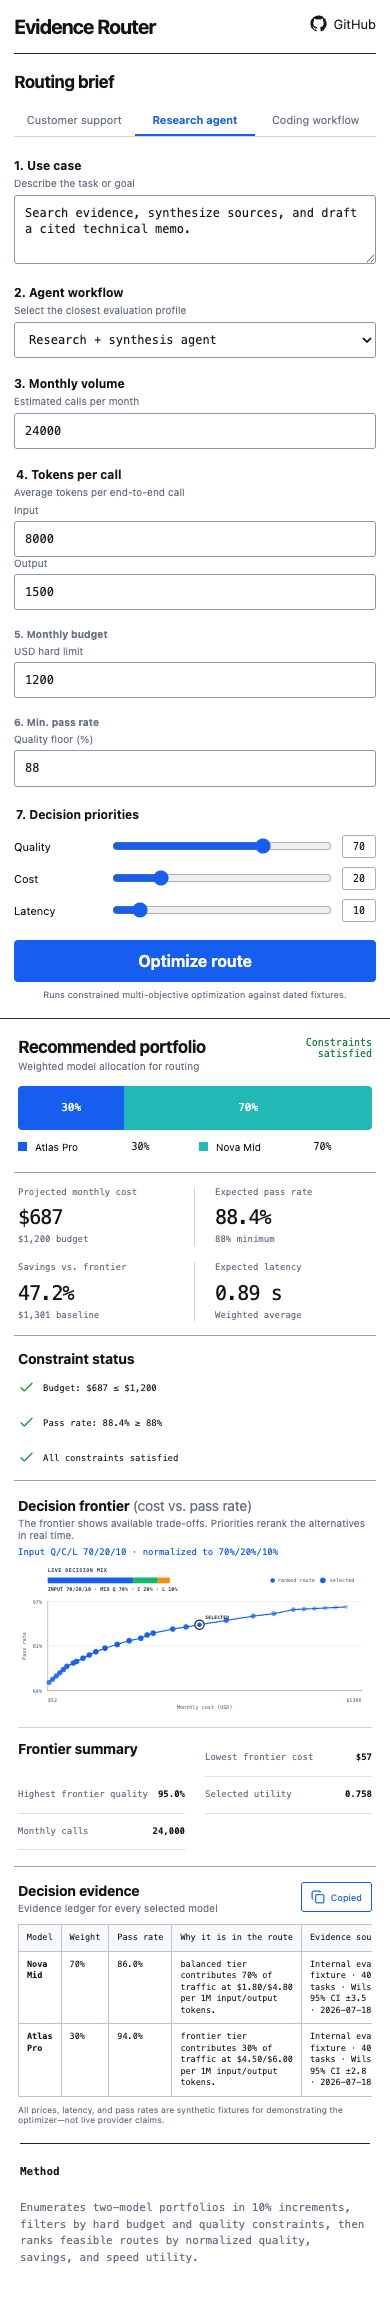
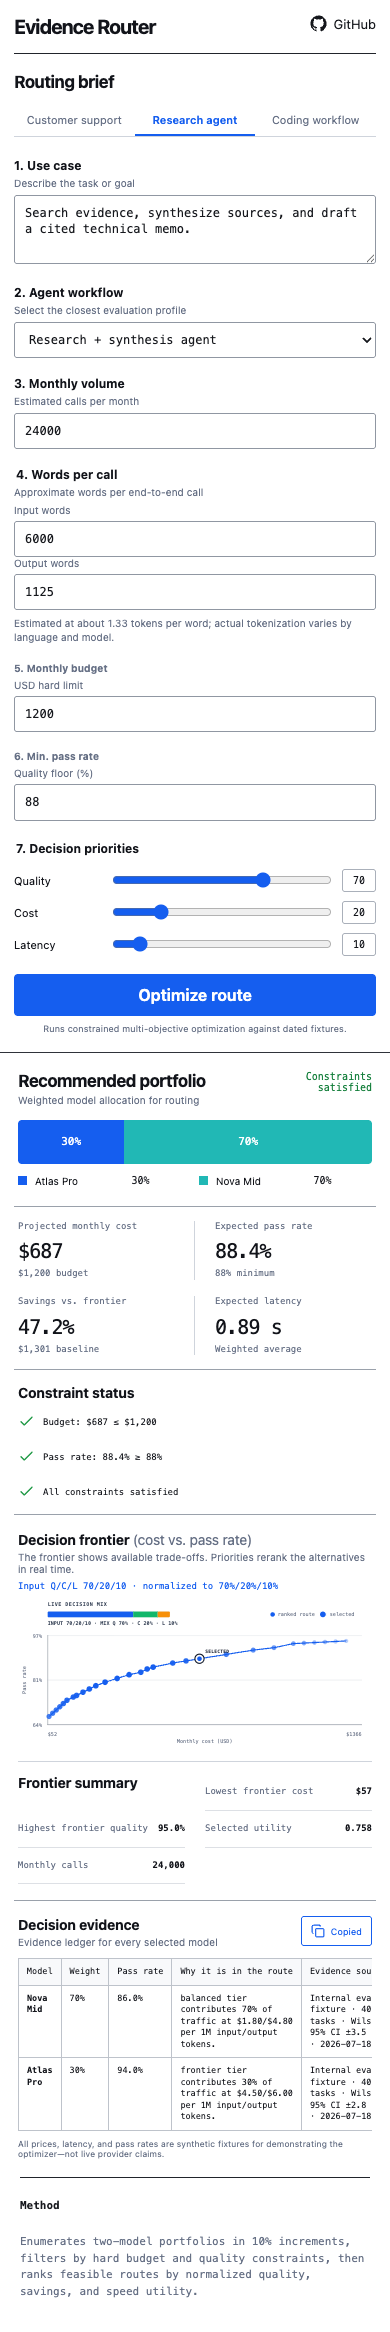
fix: collect workload size in words

diff --git a/src/components/InputPanel.tsx b/src/components/InputPanel.tsx
@@ -1,6 +1,7 @@
 import type { Dispatch, SetStateAction } from 'react'
 import type { RoutingInput, Workflow } from '../types'
 import { PRESETS } from '../data/presets'
+import { WORD_USAGE_ESTIMATE_NOTE } from '../lib/usage'
 
 interface InputPanelProps {
   input: RoutingInput
@@ -13,7 +14,7 @@ interface InputPanelProps {
 export function InputPanel({ input, setInput, selectedPreset, onPreset, onOptimize }: InputPanelProps) {
   const patch = <K extends keyof RoutingInput>(key: K, value: RoutingInput[K]) =>
     setInput((current) => ({ ...current, [key]: value }))
-  const number = (key: keyof Pick<RoutingInput, 'monthlyCalls' | 'inputTokensPerCall' | 'outputTokensPerCall' | 'monthlyBudget'>, value: string) =>
+  const number = (key: keyof Pick<RoutingInput, 'monthlyCalls' | 'inputWordsPerCall' | 'outputWordsPerCall' | 'monthlyBudget'>, value: string) =>
     patch(key, Math.max(0, Number(value)))
   const priority = (key: keyof RoutingInput['priorities'], value: string) =>
     setInput((current) => ({ ...current, priorities: { ...current.priorities, [key]: Number(value) } }))
@@ -53,12 +54,13 @@ export function InputPanel({ input, setInput, selectedPreset, onPreset, onOptimi
       </label>
 
       <fieldset className="field wide">
-        <legend className="field-index">4. Tokens per call</legend>
-        <span className="field-help">Average tokens per end-to-end call</span>
+        <legend className="field-index">4. Words per call</legend>
+        <span className="field-help">Approximate words per end-to-end call</span>
         <div className="paired-inputs">
-          <label><span>Input</span><input type="number" min="1" value={input.inputTokensPerCall} onChange={(event) => number('inputTokensPerCall', event.target.value)} /></label>
-          <label><span>Output</span><input type="number" min="1" value={input.outputTokensPerCall} onChange={(event) => number('outputTokensPerCall', event.target.value)} /></label>
+          <label><span>Input words</span><input type="number" min="0" value={input.inputWordsPerCall} onChange={(event) => number('inputWordsPerCall', event.target.value)} /></label>
+          <label><span>Output words</span><input type="number" min="0" value={input.outputWordsPerCall} onChange={(event) => number('outputWordsPerCall', event.target.value)} /></label>
         </div>
+        <span className="field-help word-estimate-note">{WORD_USAGE_ESTIMATE_NOTE}</span>
       </fieldset>
 
       <div className="paired-inputs major-pair">

diff --git a/src/lib/router.test.ts b/src/lib/router.test.ts
@@ -2,14 +2,15 @@ import { describe, expect, it } from 'vitest'
 import { MODEL_CATALOG } from '../data/models'
 import { normalizePriorities } from './priorities'
 import { forecastPortfolio, optimizeRoute } from './router'
+import * as routing from './router'
 import type { RoutingInput } from '../types'
 
 const baseInput: RoutingInput = {
   useCase: 'Customer-support agent',
   workflow: 'support',
   monthlyCalls: 100_000,
-  inputTokensPerCall: 1_000,
-  outputTokensPerCall: 250,
+  inputWordsPerCall: 750,
+  outputWordsPerCall: 188,
   monthlyBudget: 500,
   passRateFloor: 0.8,
   priorities: { quality: 50, cost: 30, speed: 20 },
@@ -31,7 +32,7 @@ describe('normalizePriorities', () => {
 })
 
 describe('forecastPortfolio', () => {
-  it('calculates token cost and weighted operating metrics', () => {
+  it('estimates token-priced cost from user-entered words', () => {
     const forecast = forecastPortfolio(
       baseInput,
       [
@@ -41,9 +42,21 @@ describe('forecastPortfolio', () => {
       MODEL_CATALOG,
     )
 
-    expect(forecast.monthlyCost).toBeCloseTo(337.5, 1)
+    expect(forecast.monthlyCost).toBeCloseTo(337.85, 1)
     expect(forecast.passRate).toBeCloseTo(0.84, 3)
     expect(forecast.latencyMs).toBeCloseTo(830, 0)
+  })
+})
+
+describe('word usage estimation', () => {
+  const estimateTokensFromWords = (routing as unknown as {
+    estimateTokensFromWords?: (words: number) => number
+  }).estimateTokensFromWords
+
+  it('converts words with the shared planning estimate', () => {
+    expect(estimateTokensFromWords?.(0)).toBe(0)
+    expect(estimateTokensFromWords?.(750)).toBe(1_000)
+    expect(estimateTokensFromWords?.(188)).toBe(251)
   })
 })
 

diff --git a/src/data/presets.ts b/src/data/presets.ts
@@ -14,8 +14,8 @@ export const PRESETS: RoutingPreset[] = [
       useCase: 'Answer product questions, retrieve account context, and escalate uncertain cases.',
       workflow: 'support',
       monthlyCalls: 100_000,
-      inputTokensPerCall: 1_000,
-      outputTokensPerCall: 250,
+      inputWordsPerCall: 750,
+      outputWordsPerCall: 188,
       monthlyBudget: 500,
       passRateFloor: 0.8,
       priorities: { quality: 50, cost: 30, speed: 20 },
@@ -28,8 +28,8 @@ export const PRESETS: RoutingPreset[] = [
       useCase: 'Search evidence, synthesize sources, and draft a cited technical memo.',
       workflow: 'research',
       monthlyCalls: 24_000,
-      inputTokensPerCall: 8_000,
-      outputTokensPerCall: 1_500,
+      inputWordsPerCall: 6_000,
+      outputWordsPerCall: 1_125,
       monthlyBudget: 1_200,
       passRateFloor: 0.88,
       priorities: { quality: 70, cost: 20, speed: 10 },
@@ -42,8 +42,8 @@ export const PRESETS: RoutingPreset[] = [
       useCase: 'Triage an issue, propose a patch, run tests, and review the final diff.',
       workflow: 'coding',
       monthlyCalls: 40_000,
-      inputTokensPerCall: 5_000,
-      outputTokensPerCall: 1_200,
+      inputWordsPerCall: 3_750,
+      outputWordsPerCall: 900,
       monthlyBudget: 1_600,
       passRateFloor: 0.87,
       priorities: { quality: 65, cost: 20, speed: 15 },

diff --git a/src/lib/router.ts b/src/lib/router.ts
@@ -8,6 +8,9 @@ import type {
   RoutingResult,
 } from '../types'
 import { normalizePriorities } from './priorities'
+import { estimateTokensFromWords } from './usage'
+
+export { estimateTokensFromWords } from './usage'
 
 interface Candidate {
   allocations: Allocation[]
@@ -19,8 +22,8 @@ interface Candidate {
 const round = (value: number, digits = 4) => Number(value.toFixed(digits))
 
 function modelMonthlyCost(input: RoutingInput, model: ModelProfile): number {
-  const inputMillions = (input.monthlyCalls * input.inputTokensPerCall) / 1_000_000
-  const outputMillions = (input.monthlyCalls * input.outputTokensPerCall) / 1_000_000
+  const inputMillions = (input.monthlyCalls * estimateTokensFromWords(input.inputWordsPerCall)) / 1_000_000
+  const outputMillions = (input.monthlyCalls * estimateTokensFromWords(input.outputWordsPerCall)) / 1_000_000
   return inputMillions * model.inputPricePerMillion + outputMillions * model.outputPricePerMillion
 }
 

diff --git a/src/lib/usage.ts b/src/lib/usage.ts
@@ -1,0 +1,18 @@
+import type { RoutingInput } from '../types'
+
+export const TOKENS_PER_WORD = 4 / 3
+export const WORD_USAGE_ESTIMATE_NOTE = 'Estimated at about 1.33 tokens per word; actual tokenization varies by language and model.'
+
+export function estimateTokensFromWords(words: number): number {
+  const safeWords = Number.isFinite(words) ? Math.max(0, words) : 0
+  return Math.round(safeWords * TOKENS_PER_WORD)
+}
+
+export function buildUsageEstimation(input: Pick<RoutingInput, 'inputWordsPerCall' | 'outputWordsPerCall'>) {
+  return {
+    tokensPerWord: TOKENS_PER_WORD,
+    estimatedInputTokensPerCall: estimateTokensFromWords(input.inputWordsPerCall),
+    estimatedOutputTokensPerCall: estimateTokensFromWords(input.outputWordsPerCall),
+    note: WORD_USAGE_ESTIMATE_NOTE,
+  }
+}

diff --git a/src/styles.css b/src/styles.css
@@ -24,6 +24,7 @@ h3 { font-size: 14px; letter-spacing: -0.015em; }
 .field, .priorities { display: block; border: 0; padding: 0; margin: 0 0 18px; }
 .field-index { display: block; font-weight: 700; font-size: 12px; margin-bottom: 4px; }
 .field-help { display: block; font-size: 10px; color: var(--muted); margin-bottom: 6px; }
+.word-estimate-note { margin: 7px 0 0; line-height: 1.35; }
 .field input, .field textarea, .field select, .paired-inputs input { width: 100%; border: 1px solid #9097a2; border-radius: 3px; background: #fff; padding: 9px 10px; font: 12px/1.35 ui-monospace, SFMono-Regular, Menlo, monospace; color: #16181d; }
 .field textarea { resize: vertical; min-height: 68px; }
 .paired-inputs { display: grid; grid-template-columns: 1fr 1fr; gap: 14px; }

diff --git a/src/App.tsx b/src/App.tsx
@@ -4,6 +4,7 @@ import { ResultPanel } from './components/ResultPanel'
 import { MODEL_CATALOG } from './data/models'
 import { PRESETS } from './data/presets'
 import { optimizeRoute } from './lib/router'
+import { buildUsageEstimation } from './lib/usage'
 import type { RoutingInput } from './types'
 
 export default function App() {
@@ -20,7 +21,7 @@ export default function App() {
   }
 
   const copyDecision = async () => {
-    await navigator.clipboard.writeText(JSON.stringify({ input, recommendation: result }, null, 2))
+    await navigator.clipboard.writeText(JSON.stringify({ input, usageEstimation: buildUsageEstimation(input), recommendation: result }, null, 2))
     setCopied(true)
     window.setTimeout(() => setCopied(false), 1600)
   }

diff --git a/src/types.ts b/src/types.ts
@@ -10,8 +10,8 @@ export interface RoutingInput {
   useCase: string
   workflow: Workflow
   monthlyCalls: number
-  inputTokensPerCall: number
-  outputTokensPerCall: number
+  inputWordsPerCall: number
+  outputWordsPerCall: number
   monthlyBudget: number
   passRateFloor: number
   priorities: Priorities
